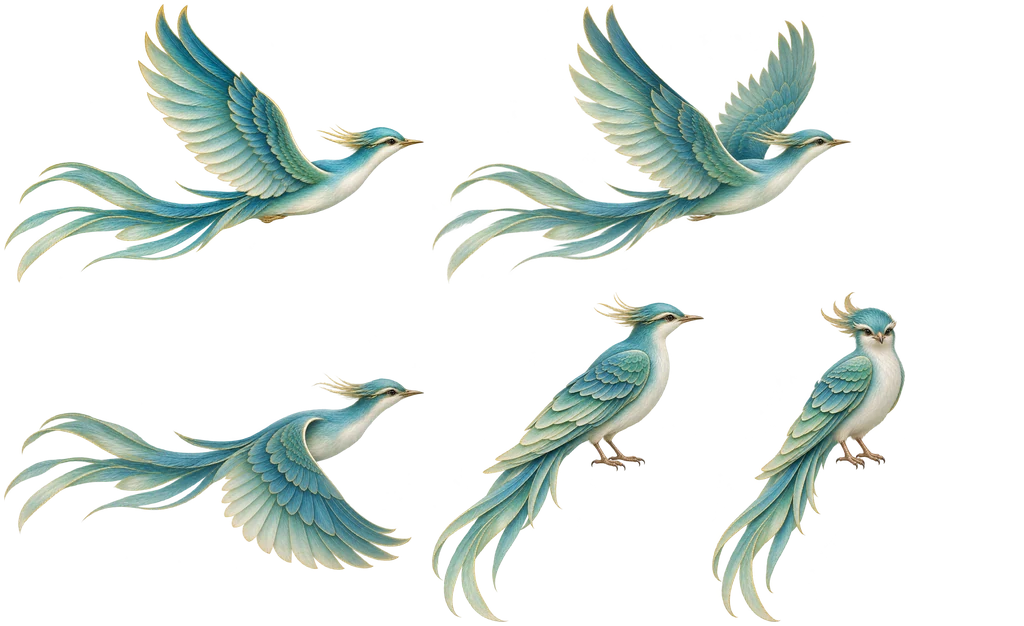
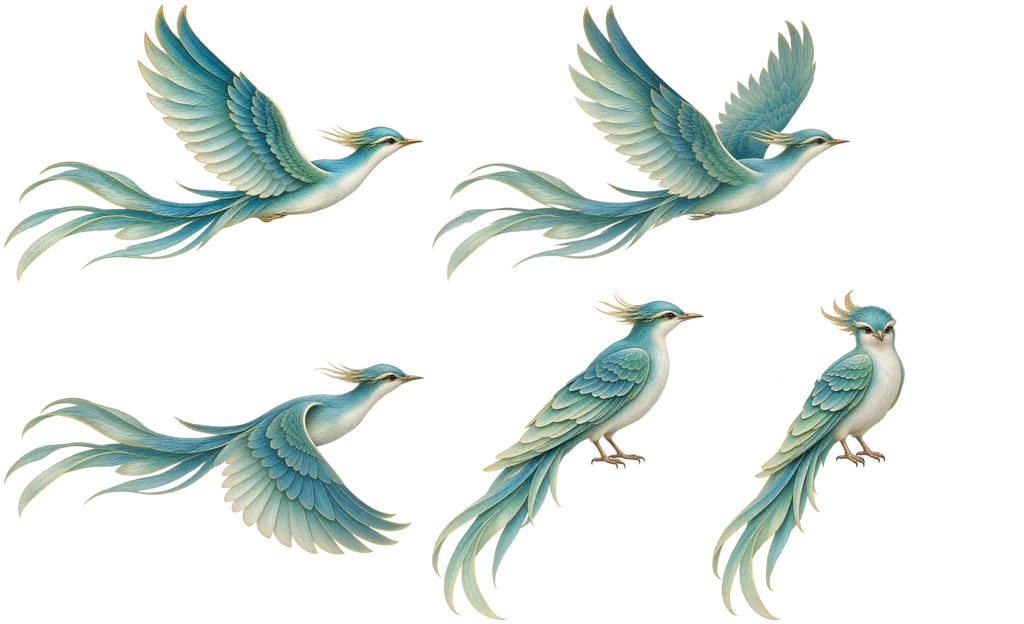
青鳥動作改自然一點
- 飛行三格對齊頭的位置（往下那格原本低了 45px，換格時整隻會跳）
- 換格直接切換，不再淡入淡出（拿掉重影）
- 拍幾下就滑翔一段，不是一直同樣速度拍；拍翅膀時身體跟著上下起伏
- 快降落時翅膀舉高、抬頭煞車；落地後輕輕一沉再站直；起飛時拍得最急
- 停著微微呼吸；轉身改成跳一下、跳到最高點才轉過去
- 新增測試：有滑翔、最後一段在煞車、轉身在半空中才翻面

diff --git a/js/bird-view.js b/js/bird-view.js
@@ -1,11 +1,13 @@
 // 畫青鳥（js/birds.js 決定牠們在哪、在做什麼，這裡只負責畫）。
-// 飛的時候：往上／展翅／往下三格輪流（翻頁動畫，中間淡入淡出）。
-// 停著：側面那張；偶爾換成正面（像轉過來看你），淡入淡出。
-import { flapPose, createFlock, stepFlock } from "./birds.js";
+// 飛的時候：往上／展翅／往下三格輪流（翻頁動畫，直接切換），拍幾下滑翔一段，身體跟著起伏。
+// 停著：側面那張；偶爾換成正面（像轉過來看你）；轉身時跳一下。
+import { createFlock, stepFlock } from "./birds.js";
 
 const FLY_LEN = 160; // 飛行時整隻鳥多長（大門設計座標）
 const PERCH_H = 115; // 停著時多高（大門設計座標）
-const FLY_FEET = [0.625, 0.755]; // 飛行圖裡腳的位置（比例）：飛和停用同一個點，降落時才不會跳
+const FLY_FEET = [0.625, 0.755];
+const FLAP_ORDER = ["up", "mid", "down", "mid"]; // 往上 → 展翅 → 往下 → 展翅
+const SETTLE = 12; // 落地後幾格內輕輕一沉再站直 // 飛行圖裡腳的位置（比例）：飛和停用同一個點，降落時才不會跳
 
 export class BirdView {
   constructor(canvas, kit, gate, gateEl) {
@@ -17,8 +19,7 @@ export class BirdView {
     this.flock = createFlock();
     this.mouse = { x: -9999, y: -9999, speed: 0 };
     this.active = true;
-    this.fade = new Map(); // 每隻鳥：0 = 飛的圖、1 = 停的圖
-    this.front = new Map(); // 每隻鳥：正面圖的比例
+    this.bob = new Map(); // 每隻鳥：身體上下起伏（平滑過）
     window.addEventListener("pointermove", (e) => {
       this.mouse.speed = Math.hypot(e.clientX - this.mouse.x, e.clientY - this.mouse.y);
       this.mouse.x = e.clientX;
@@ -80,49 +81,58 @@ export class BirdView {
     const P = meta.parts;
     for (const b of this.flock.birds) {
       if (b.state === "gone" || b.state === "wait") {
-        this.fade.delete(b);
-        this.front.delete(b);
+        this.bob.delete(b);
         continue;
       }
-      const perched = b.state === "perched";
-      const f = lerp(this.fade.get(b) ?? 0, perched ? 1 : 0, 0.18);
-      const fr = lerp(this.front.get(b) ?? 0, perched && b.pose === "front" ? 1 : 0, 0.08);
-      this.fade.set(b, f);
-      this.front.set(b, fr);
-      // 飛的樣子
-      if (f < 0.99) {
-        const pose = flapPose(b.flap);
-        const s = (FLY_LEN * k) / meta.flyLength;
-        // 往右飛：照路線方向傾斜；往左飛：鏡像
-        const tilt = b.facing > 0 ? b.angle : Math.PI - b.angle;
-        const bank = Math.max(-0.55, Math.min(0.55, Math.atan2(Math.sin(tilt), Math.cos(tilt))));
-        for (const [name, a] of [
-          [pose.a, 1 - pose.mix],
-          [pose.b, pose.mix]
-        ]) {
-          if (a <= 0.01) continue;
-          const p = P[name];
-          this.sprite(p, b.x, b.y, b.facing, b.facing > 0 ? bank : -bank, s, [p.rect[2] * FLY_FEET[0], p.rect[3] * FLY_FEET[1]], a * (1 - f));
-        }
-      }
-      // 停著的樣子
-      if (f > 0.01) {
-        const s = (PERCH_H * k) / meta.perchHeight;
-        if (fr < 0.99) this.sprite(P.perch, b.x, b.y, b.facing, 0, s, P.perch.pivot, f * (1 - fr));
-        if (fr > 0.01) this.sprite(P.front, b.x, b.y, b.facing, 0, s, P.front.pivot, f * fr);
-      }
+      if (b.state !== "perched") this.drawFlying(b, k, P, meta);
+      else this.drawPerched(b, k, P, meta);
     }
   }
 
-  sprite(part, x, y, facing, angle, s, pivot, alpha) {
+  // 飛：三格直接切換（不淡入淡出，才不會有重影）；拍翅膀時身體跟著上下起伏；
+  // 滑翔時翅膀張開不動；快降落時翅膀舉高、頭抬起來煞車
+  drawFlying(b, k, P, meta) {
+    let name;
+    if (b.brake) name = b.flap % 1 < 0.6 ? "up" : "mid";
+    else if (b.glide > 0) name = "mid";
+    else name = FLAP_ORDER[Math.floor(((b.flap % 1) + 1) % 1 * 4)];
+    // 往下拍時身體往上浮：用拍翅膀的相位算，滑翔時慢慢回到 0
+    const target = b.glide > 0 ? 0 : Math.sin(b.flap * Math.PI * 2) * 0.035 * FLY_LEN * k;
+    const bob = lerp(this.bob.get(b) ?? target, target, 0.35);
+    this.bob.set(b, bob);
+    const s = (FLY_LEN * k) / meta.flyLength;
+    // 往右飛：照路線方向傾斜；往左飛：鏡像
+    const tilt = b.facing > 0 ? b.angle : Math.PI - b.angle;
+    let bank = Math.max(-0.55, Math.min(0.55, Math.atan2(Math.sin(tilt), Math.cos(tilt))));
+    if (b.brake) bank -= 0.3; // 抬頭
+    const p = P[name];
+    this.sprite(p, b.x, b.y - bob, b.facing, b.facing > 0 ? bank : -bank, s, s, [p.rect[2] * FLY_FEET[0], p.rect[3] * FLY_FEET[1]]);
+  }
+
+  // 停：剛落地輕輕一沉再站直；平常微微呼吸；轉身時跳一下
+  drawPerched(b, k, P, meta) {
+    const s = (PERCH_H * k) / meta.perchHeight;
+    let sx = 1;
+    let sy = 1;
+    if (b.landed < SETTLE) {
+      const t = 1 - (1 - b.landed / SETTLE) ** 3;
+      sy = 0.88 + 0.12 * t;
+      sx = 1.06 - 0.06 * t;
+    }
+    sy *= 1 + 0.012 * Math.sin(b.age * 0.09);
+    const hopY = b.hop < 14 ? Math.sin((Math.PI * b.hop) / 14) * 0.06 * PERCH_H * k : 0;
+    const p = b.pose === "front" ? P.front : P.perch;
+    this.sprite(p, b.x, b.y - hopY, b.facing, 0, s * sx, s * sy, p.pivot);
+  }
+
+  sprite(part, x, y, facing, angle, sx, sy, pivot) {
     const { ctx } = this;
     const [rx, ry, rw, rh] = part.rect;
     ctx.save();
-    ctx.globalAlpha = alpha;
     ctx.translate(x, y);
     ctx.scale(facing, 1);
     ctx.rotate(angle);
-    ctx.scale(s, s);
+    ctx.scale(sx, sy);
     ctx.drawImage(this.kit.img, rx, ry, rw, rh, -pivot[0], -pivot[1], rw, rh);
     ctx.restore();
   }

diff --git a/js/birds.js b/js/birds.js
@@ -90,8 +90,34 @@ function spawn(flock, e) {
       facing: fromLeft ? 1 : -1,
       pose: "fly",
       rest: 0,
-      look: 0
+      look: 0,
+      glide: 0, // 還要滑翔幾格（翅膀張開不拍）
+      beats: 2 + Math.floor(e.random() * 3), // 再拍幾下就滑翔一段
+      brake: false, // 快降落：翅膀舉高煞車
+      landed: 0, // 降落後過了幾格（落地時輕輕一沉）
+      hop: 99, // 轉身的小跳躍進行到第幾格
+      flipPending: false,
+      age: 0
     });
+  }
+}
+
+const HOP = 14; // 轉身跳一下要幾格
+
+// 拍翅膀或滑翔：拍幾下就張開翅膀滑一段（真的鳥不會一直用同樣速度拍）
+function flapOrGlide(b, rate, canGlide, random) {
+  if (b.glide > 0) {
+    b.glide -= 1;
+    return;
+  }
+  const before = Math.floor(b.flap);
+  b.flap += rate;
+  if (Math.floor(b.flap) > before) {
+    b.beats -= 1;
+    if (b.beats <= 0 && canGlide) {
+      b.glide = 30 + random() * 40;
+      b.beats = 2 + Math.floor(random() * 3);
+    }
   }
 }
 
@@ -99,6 +125,8 @@ function takeOff(b, e) {
   b.state = "out";
   b.t = 0;
   b.pose = "fly";
+  b.brake = false;
+  b.glide = 0;
   const toLeft = b.x < e.w / 2;
   b.outCurve = curve(
     { x: b.x, y: b.y },
@@ -111,6 +139,7 @@ function takeOff(b, e) {
 
 function stepBird(b, e) {
   if (b.state === "gone") return;
+  b.age = (b.age || 0) + 1;
   if (b.state === "wait") {
     if (!e.active) {
       b.state = "gone";
@@ -129,8 +158,13 @@ function stepBird(b, e) {
     b.y = p.y;
     b.angle = p.angle;
     b.facing = Math.cos(p.angle) >= 0 ? 1 : -1;
-    b.flap += b.t > 0.75 ? 0.07 : 0.04; // 快降落時拍得比較急
+    // 最後一段：翅膀舉高、拍得急，像在煞車
+    b.brake = b.t > 0.82;
+    if (b.brake) b.glide = 0;
+    flapOrGlide(b, b.brake ? 0.075 : 0.045, b.t > 0.1 && b.t < 0.7, e.random);
     if (b.t >= 1) {
+      b.brake = false;
+      b.landed = 0;
       b.state = "perched";
       b.x = target.x;
       b.y = target.y;
@@ -148,14 +182,26 @@ function stepBird(b, e) {
     const m = e.mouse;
     const scared = m.speed > SCARE_SPEED && Math.hypot(m.x - b.x, m.y - b.y) < SCARE_R;
     b.rest -= 1;
+    b.landed += 1;
     if (!e.active || scared || b.rest <= 0) return takeOff(b, e);
-    // 休息時偶爾轉過來看你（正面），或轉身換方向
+    // 轉身是跳一下：跳到一半（最高點）才轉過去
+    if (b.hop < HOP) {
+      b.hop += 1;
+      if (b.flipPending && b.hop >= HOP / 2) {
+        b.facing = -b.facing;
+        b.flipPending = false;
+      }
+    }
+    // 休息時偶爾轉過來看你（正面），或跳一下轉身
     b.look -= 1;
     if (b.look <= 0) {
       const r = e.random();
       if (b.pose === "front") b.pose = "perch";
       else if (r < 0.5) b.pose = "front";
-      else b.facing = -b.facing;
+      else {
+        b.hop = 0;
+        b.flipPending = true;
+      }
       b.look = 120 + e.random() * 240;
     }
     return;
@@ -167,7 +213,7 @@ function stepBird(b, e) {
     b.y = p.y;
     b.angle = p.angle;
     b.facing = Math.cos(p.angle) >= 0 ? 1 : -1;
-    b.flap += b.t < 0.3 ? 0.08 : 0.05; // 起飛時拍得最急
+    flapOrGlide(b, b.t < 0.3 ? 0.08 : 0.05, b.t > 0.35, e.random); // 起飛時拍得最急，飛遠了才滑翔
     if (b.t >= 1) b.state = "gone";
   }
 }

diff --git a/tools/prep_bird.py b/tools/prep_bird.py
@@ -15,9 +15,30 @@ FLY_W = 420  # 飛行圖縮到多寬（像素）
 PERCH_H = 330  # 停著的圖縮到多高
 PAD = 4
 
-# 飛行三格放在同一張畫布上（頭的位置本來就對齊），用同一個裁切框才不會跳
+# 飛行三格放在同一張畫布上，用同一個裁切框才不會跳
 fly_names = [("up", "bluebird-wing-up.png"), ("mid", "bluebird.png"), ("down", "bluebird-wing-down.png")]
 fly = [(k, Image.open(SRC / n).convert("RGBA")) for k, n in fly_names]
+
+
+def head_of(im):
+    """頭的位置：最右邊 8% 那些像素的中心（鳥頭朝右）"""
+    a = np.asarray(im)[..., 3] > 30
+    ys, xs = np.nonzero(a)
+    x0 = xs.max() - int(0.08 * (xs.max() - xs.min()))
+    hy, hx = np.nonzero(a[:, x0:])
+    return hx.mean() + x0, hy.mean()
+
+
+# 三格的頭對齊在「展翅」那格的頭（往下那格 ChatGPT 畫得低了一點，不對齊的話換格時整隻會跳）
+ref = head_of(fly[1][1])
+aligned = []
+for k, im in fly:
+    hx, hy = head_of(im)
+    canvas = Image.new("RGBA", im.size, (0, 0, 0, 0))
+    canvas.paste(im, (int(round(ref[0] - hx)), int(round(ref[1] - hy))), im)  # 可以是負的位移，超出的會被切掉
+    print(k, "head shift", round(ref[0] - hx), round(ref[1] - hy))
+    aligned.append((k, canvas))
+fly = aligned
 alpha = np.zeros(np.asarray(fly[0][1]).shape[:2], bool)
 for _, im in fly:
     alpha |= np.asarray(im)[..., 3] > 30
